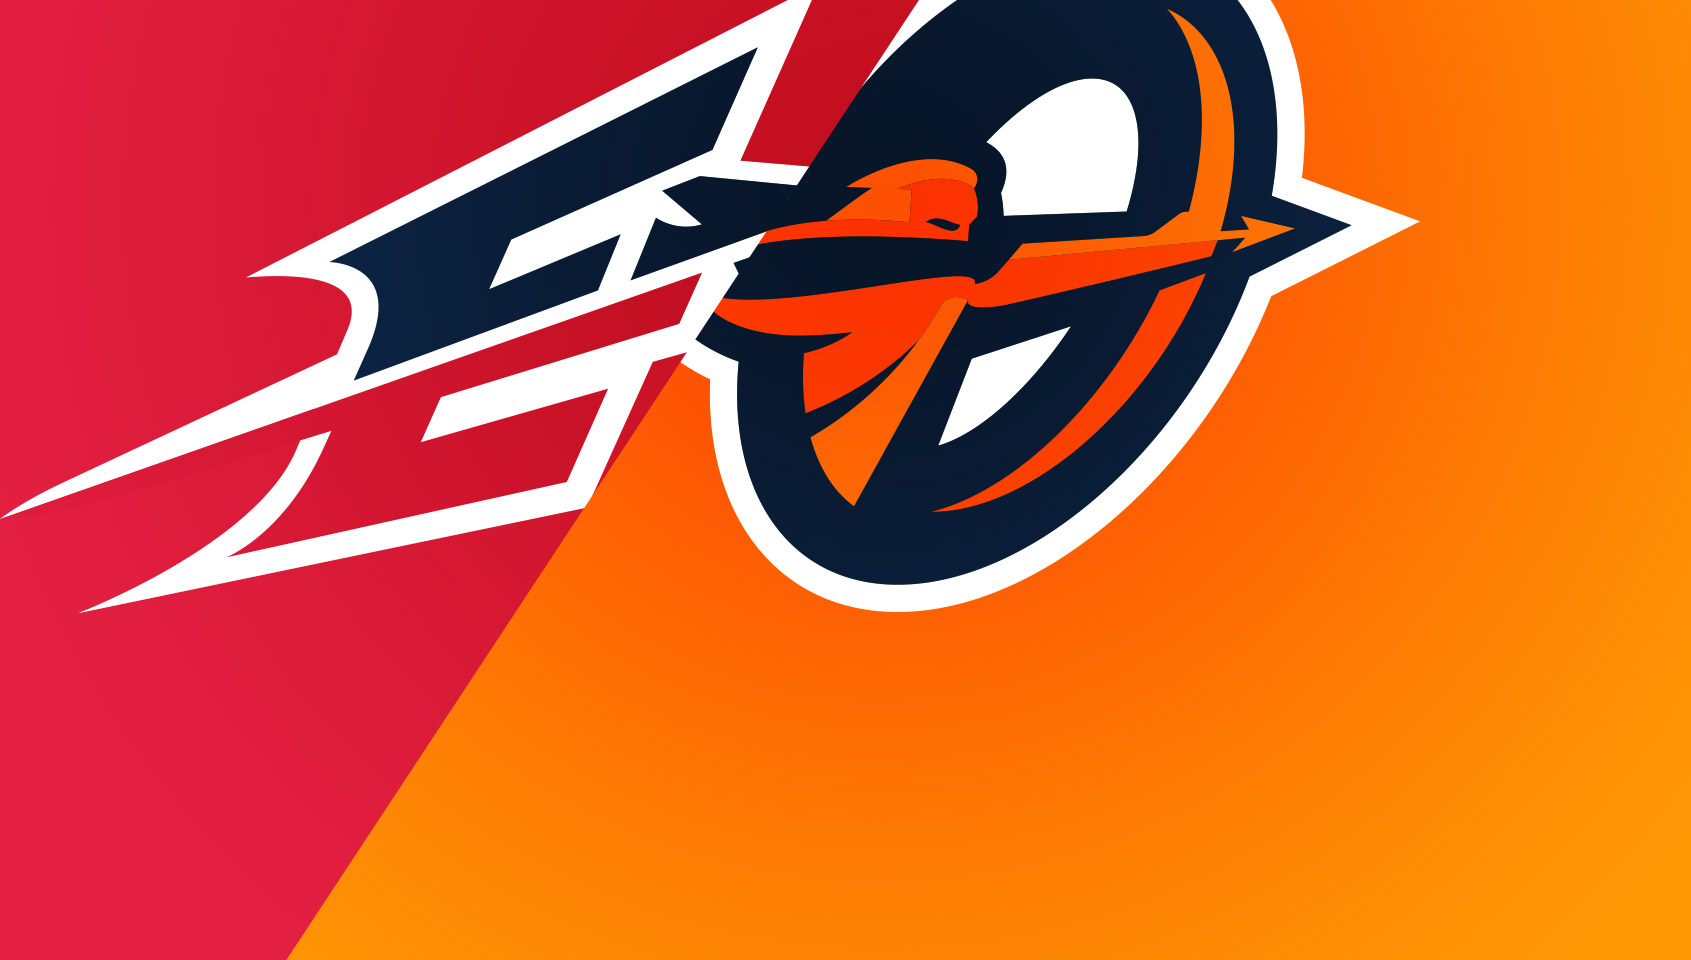
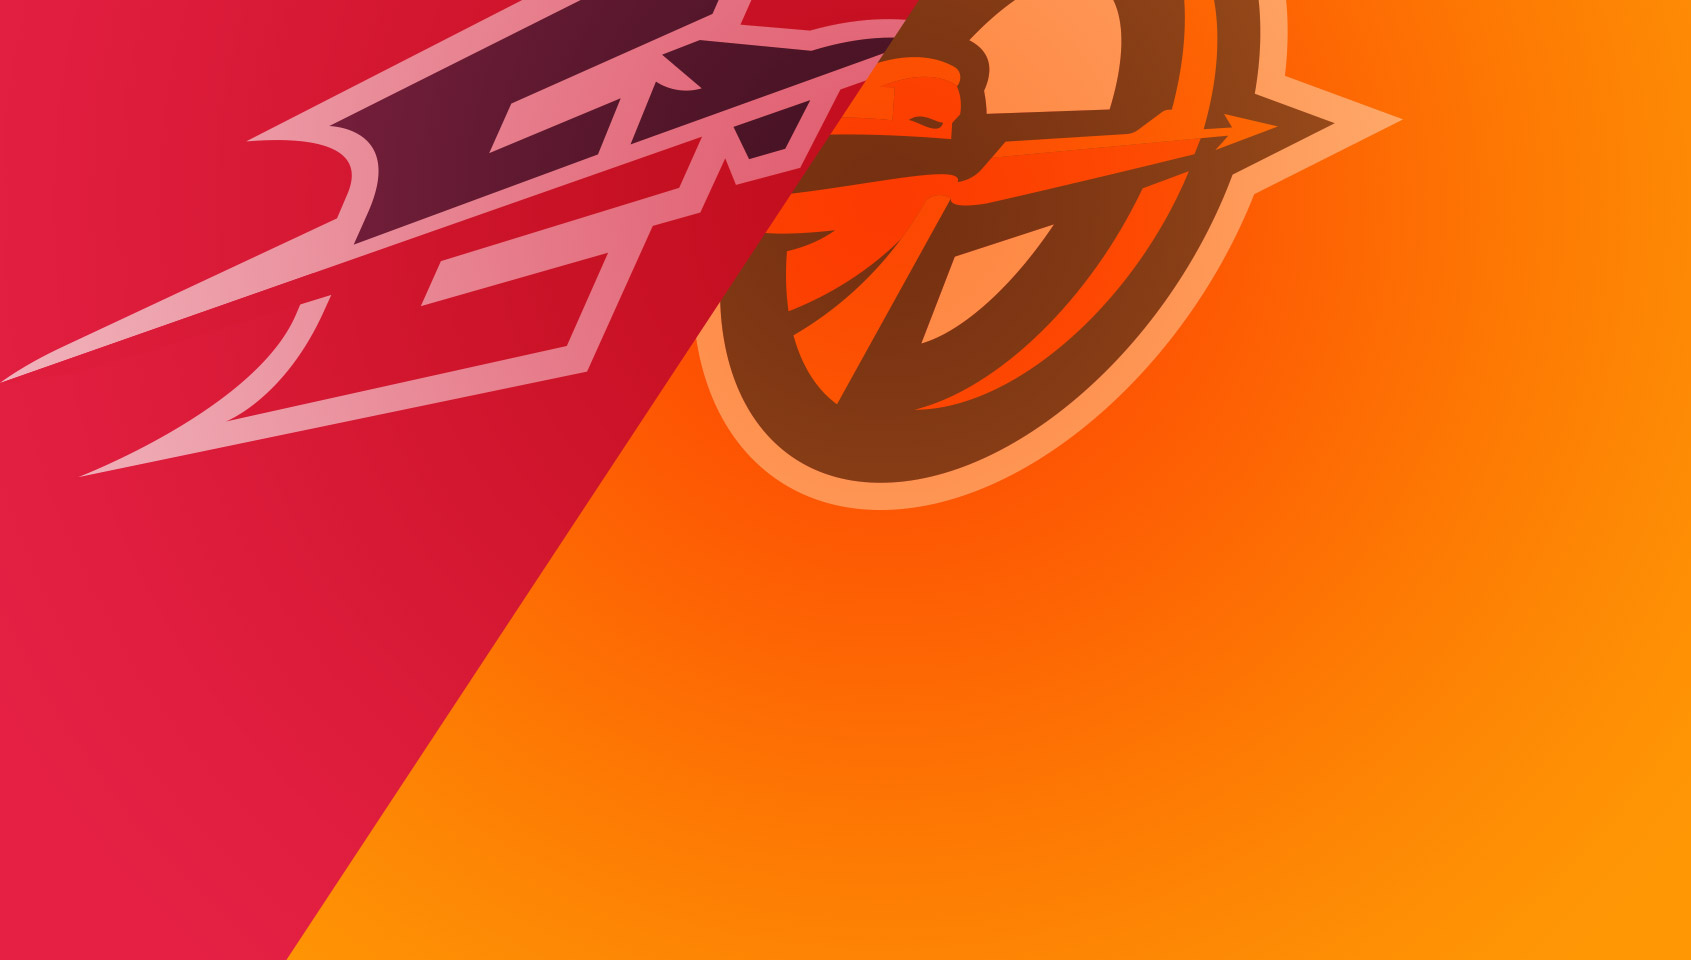
fixed hero

Changed region(s): [[0.0, 0.0, 0.8303, 0.6562], [0.0, 0.375, 0.0308, 0.4062]]

diff --git a/src/scss/themes/_basic-hero.scss b/src/scss/themes/_basic-hero.scss
@@ -1,5 +1,5 @@
-$color-1: #EFCB5F;
-$color-2: #58B3CE;
+$color-1: #E43746;
+$color-2: #F3973E;
 
 html{
 	background-color: $color-1;
@@ -13,7 +13,7 @@ html::after{
 	width: 100%;
 	margin-top: 80px;
 	background-color: transparent;
-	background-image: url("../img/header-week-3.png");
+	background-image: url("../img/header-week-3-orl.png");
 	background-position: center top;
 	background-repeat: no-repeat;
 }
